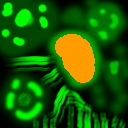
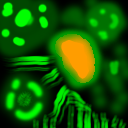
2

Changed region(s): [[0.4062, 0.25, 0.75, 0.6562]]

diff --git a/index.html b/index.html
@@ -42,7 +42,7 @@
             let ambientLight, directionalLight, lightTarget;
             let uvOffset = 0.125;
 
-            let LevelSize = 128;
+            let LevelSize = 40;
             let waterLevel = 4; 
             
 
@@ -61,10 +61,7 @@
             async function loadLevel(level){
                 initScene();
                 let noise = await LoadImageToArray('https://raw.githubusercontent.com/ShiverBeaver/MyExperiments/main/generation/perlin_scale18_detail3.png',1);
-                console.log(noise);
-                
-                noise = MapRange(noise,getRandomInt(4,4));
-                console.log(noise);
+                noise = MapRange(noise,getRandomInt(6,6));
                 let maxOffset =  noise[0].length - LevelSize;
                 let OffsetX = getRandomInt(0,maxOffset);
                 let OffsetZ = getRandomInt(0,maxOffset);
@@ -75,8 +72,8 @@
                         levelHeightNoise[i][j] = noise[i+OffsetX][j+OffsetZ];
                     }
                 }
-                let template = await LoadImageToArray('https://raw.githubusercontent.com/ShiverBeaver/MyExperiments/main/generation/leveltemplates/testlevel.png',1);
-                template = MapRange(template,getRandomInt(14,14));
+                let template = await LoadImageToArray('https://raw.githubusercontent.com/ShiverBeaver/MyExperiments/main/generation/leveltemplates/testlevel_colored.png',1);
+                template = MapRange(template,getRandomInt(0,14));
                 maxOffset =  template[0].length - LevelSize;
                 OffsetX = getRandomInt(0,maxOffset);
                 OffsetZ = getRandomInt(0,maxOffset);
@@ -87,11 +84,29 @@
                         levelHeightTemplate[i][j] = template[i+OffsetX][j+OffsetZ];
                     }
                 }
+                
+                let villagetemplate = await LoadImageToArray('https://raw.githubusercontent.com/ShiverBeaver/MyExperiments/main/generation/leveltemplates/testlevel_colored.png',0);
+                villagetemplate = MapRange(villagetemplate,100);
+                console.log(villagetemplate);
+                let villagelevelTemplate =  [];
+                for (let i = 0; i < LevelSize; i++) {
+                    villagelevelTemplate[i] = [];
+                    for (let j = 0; j < LevelSize; j++) {
+                        villagelevelTemplate[i][j] = villagetemplate[i+OffsetX][j+OffsetZ];
+                    }
+                }
+
+                
                 let HeightMap =  [];
                 for (let i = 0; i < LevelSize; i++) {
                     HeightMap[i] = [];
                     for (let j = 0; j < LevelSize; j++) {
-                        HeightMap[i][j] = levelHeightTemplate[i][j]+levelHeightNoise[i][j];
+                        if (villagelevelTemplate[i][j] >0){
+                            HeightMap[i][j] = levelHeightTemplate[i][j] + 2;
+                        }
+                        else{
+                            HeightMap[i][j] = levelHeightTemplate[i][j]+levelHeightNoise[i][j];
+                        }
                     }
                 }
                 
@@ -114,7 +129,7 @@
                     }
                 }
                 //console.log(map);
-
+                
                 loadMeshes();
                 function initScene(){
                     /*Camera*/
@@ -359,9 +374,11 @@
                     }
 
                     for (let z = 0; z<4; z++){
-                        waterfallLayers[z] = new THREE.Mesh(BufferGeometryUtils.mergeBufferGeometries(waterfallGeometries[z]),borderMaterial);
-                        waterfallLayers[z].position.y = waterLevel-z;
-                        scene.add(waterfallLayers[z]);
+                        if(waterfallGeometries[z].length>0){
+                            waterfallLayers[z] = new THREE.Mesh(BufferGeometryUtils.mergeBufferGeometries(waterfallGeometries[z]),borderMaterial);
+                            waterfallLayers[z].position.y = waterLevel-z;
+                            scene.add(waterfallLayers[z]);
+                        }
                     }
                     animateWaterFall();
                 }
